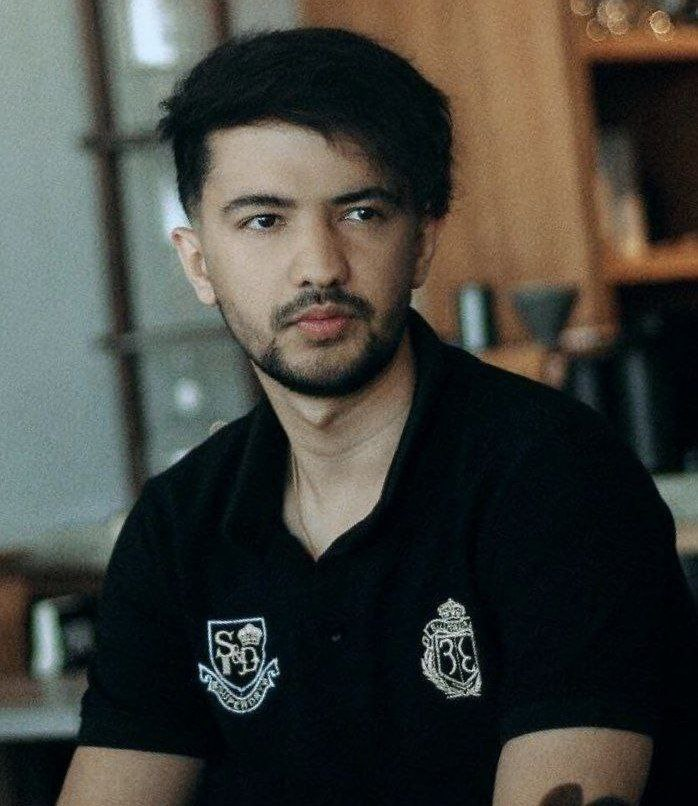
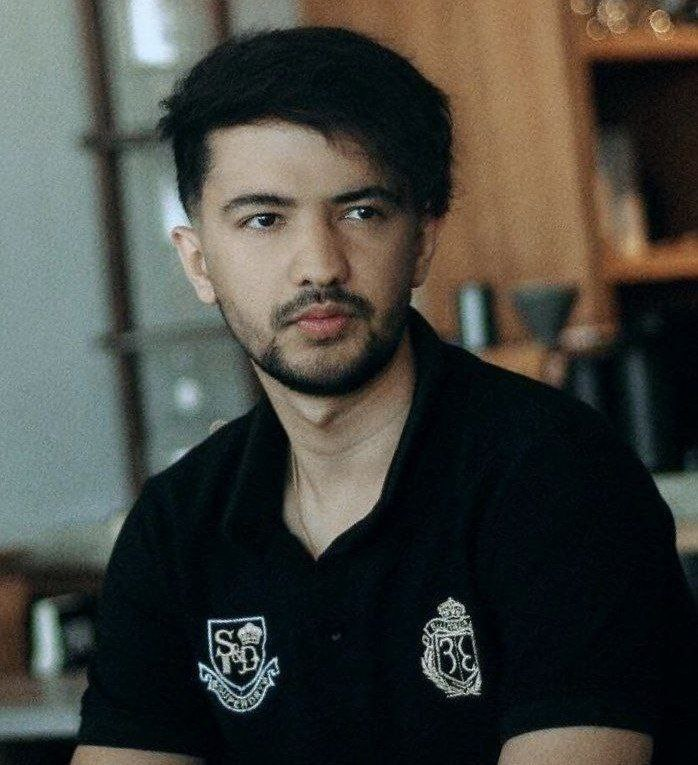
config menu json

diff --git a/pages/index.js b/pages/index.js
@@ -26,7 +26,7 @@ const Home = ({ posts }) => {
                                 className="mx-auto rounded-full"
                                 src={image}
                                 width={220}
-                                height={150}
+                                height={210}
                                 priority={true}
                                 alt={name}
                             />
